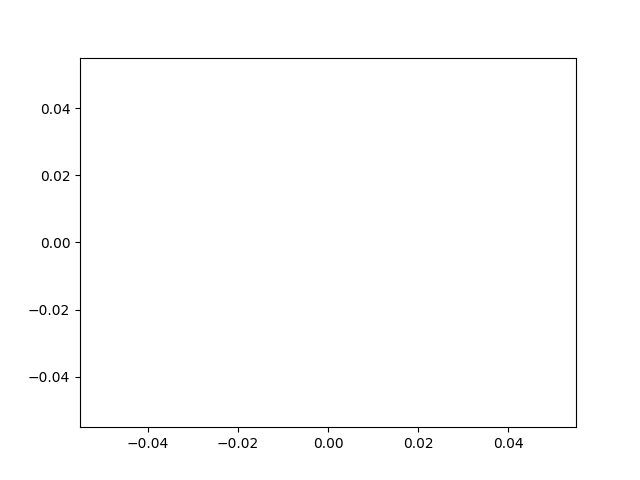
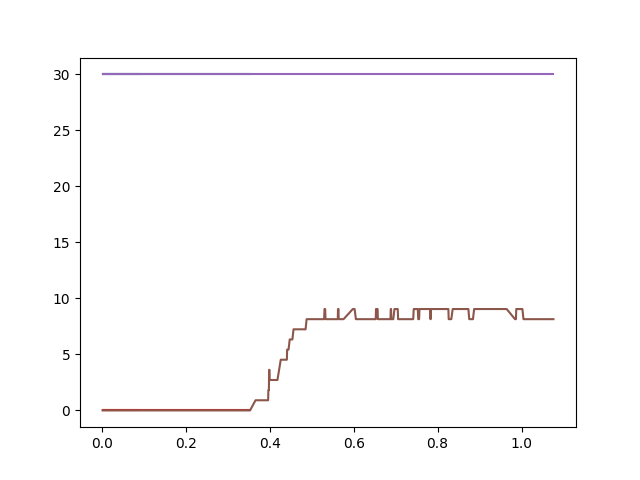
fix

diff --git a/robot1/teensy_moteur/lib/rolling_basis/src/rolling_basis.cpp b/robot1/teensy_moteur/lib/rolling_basis/src/rolling_basis.cpp
@@ -87,40 +87,40 @@ void Rolling_Basis::handle(
 {
     /* Speed part */
     // Compute real linear and angular speed
-    double Vm = (this->right_motor->speed + this->left_motor->speed) / 2;                     // Vitesse linéaire mesurée
-    double Wm = (this->right_motor->speed - this->left_motor->speed) / this->center_distance; // Vitesse angulaire mesurée
+    float Vm = (this->right_motor->speed + this->left_motor->speed) / 2;                     // Vitesse linéaire mesurée
+    float Wm = (this->right_motor->speed - this->left_motor->speed) / this->center_distance; // Vitesse angulaire mesurée
 
     // Save speeds as rolling basis properties
-    this->linear_speed = (float)Vm;
-    this->angular_speed = (float)Wm;
+    this->linear_speed = Vm;
+    this->angular_speed = Wm;
 
     // Compute linear and angular speed error (difference between target and real)
-    double Ev = target_linear_speed - Vm;
-    double Ew = target_angular_speed - Wm;
+    float Ev = target_linear_speed - Vm;
+    float Ew = target_angular_speed - Wm;
 
     // Compute PID output based on errors
-    double linear_speed_correction = this->linear_speed_pid.compute(Ev);
-    double angular_speed_correction = this->angular_speed_pid.compute(Ew);
+    float linear_speed_correction = this->linear_speed_pid.compute(Ev);
+    float angular_speed_correction = this->angular_speed_pid.compute(Ew);
 
     /* Position part */
     // We already have the current robot's position with odometrie (X, Y, THETA)
 
     // Compute distance and orientation error (difference between target and real)
-    double Ed = sqrt(pow(target_position.x - this->X, 2) + pow(target_position.y - this->Y, 2));
-    double Etheta = target_position.theta - fmod(this->THETA, PI); // fmod to keep the angle between -PI and PI, TODO: a tester !!
+    float Ed = sqrt(pow(target_position.x - this->X, 2) + pow(target_position.y - this->Y, 2));
+    float Etheta = target_position.theta - fmod(this->THETA, PI); // fmod to keep the angle between -PI and PI, TODO: a tester !!
 
     // Compute PID output based on errors
-    double linear_distance_correction = this->linear_distance_pid.compute(Ed);
-    double angular_distance_correction = this->angular_distance_pid.compute(Etheta);
+    float linear_distance_correction = this->linear_distance_pid.compute(Ed);
+    float angular_distance_correction = this->angular_distance_pid.compute(Etheta);
 
     /* Combine both corrections */
     // Compute corrected linear and angular speed
-    double Vc = target_linear_speed + linear_speed_correction + linear_distance_correction;
-    double Wc = target_angular_speed + angular_speed_correction + angular_distance_correction;
+    float Vc = target_linear_speed + linear_speed_correction + linear_distance_correction;
+    float Wc = target_angular_speed + angular_speed_correction + angular_distance_correction;
 
     // Compute right and left motor speed
-    double right_speed = (2 * Vc + Wc * this->center_distance) / 2;
-    double left_speed = (2 * Vc - Wc * this->center_distance) / 2;
+    float right_speed = (2 * Vc + Wc * this->center_distance) / 2;
+    float left_speed = (2 * Vc - Wc * this->center_distance) / 2;
 
     /* Apply commands to motors */
     this->right_motor->set_motor(right_speed);

diff --git a/robot1/rasp/controllers/rolling_basis/rolling_basis.py b/robot1/rasp/controllers/rolling_basis/rolling_basis.py
@@ -47,10 +47,10 @@ class RollingBasis(BaseComTeensy):
         self.odometrie: OrientedPoint = OrientedPoint((0.0, 0.0), 0.0)
         self.linear_speed: float = 0.0
         self.angular_speed: float = 0.0
-        self._all_linear_speed: np.ndarray = np.array([], np.float64)
-        self._all_angular_speed: np.ndarray = np.array([], np.float64)
+        self._all_linear_speed: list[float] = []
+        self._all_angular_speed: list[float] = []
         self._start_time: time = 0
-        self._time: np.ndarray = np.array([], np.float64)
+        self._time: list[float] = []
 
         # PID controllers
         self.linear_speed_pid: PID = PID(0.0, 0.0, 0.0)
@@ -107,8 +107,10 @@ class RollingBasis(BaseComTeensy):
             struct.unpack("<f", msg[8:12])[0],
         )
         # Speeds
-        self._linear_speed = struct.unpack("<f", msg[12:16])[0]
+        self.linear_speed = struct.unpack("<f", msg[12:16])[0]
         self.angular_speed = struct.unpack("<f", msg[16:20])[0]
+        
+        #self.logger.info(f"Pos: {self.odometrie}, Linear speed: {self.linear_speed}, Angular speed: {self.angular_speed}")
 
         self._add_state_to_array(
             self.linear_speed, self.angular_speed, self._get_elapsed_time()
@@ -328,10 +330,11 @@ class RollingBasis(BaseComTeensy):
             angular_speed (float): real angular speed received from Teensy
         """
 
-        np.append(self._all_linear_speed, [linear_speed])
-        np.append(self._all_angular_speed, [angular_speed])
-        np.append(self._time, [time])
-        self.logger.info(self.linear_speed)
+        self._all_linear_speed.append(linear_speed)
+        self._all_angular_speed.append(angular_speed)
+        self._time.append(time)
+        # self.logger.info(self._all_linear_speed)
+        # self.logger.info(self.linear_speed)
 
     @np.vectorize(otypes=[float])
     def _target_speed(x):
@@ -339,9 +342,11 @@ class RollingBasis(BaseComTeensy):
 
     def plot_answer_pid(self, state):
         if state == self.flag:
-            plt.plot(self._time, self._target_speed(self._time))
-            plt.plot(self._time, self._all_linear_speed)
-            plt.savefig('pid_answer.png')
+            self.logger.info(self._target_speed(self._time))
+            self.logger.info(self._all_linear_speed)
+            plt.plot(np.array(self._time), self._target_speed(self._time))
+            plt.plot(np.array(self._time), np.array(self._all_linear_speed))
+            plt.savefig("pid_answer.png")
             self.flag = not self.flag
             self.logger.info("Plotting PID answer")
 

diff --git a/robot1/rasp/brains/main_brain.py b/robot1/rasp/brains/main_brain.py
@@ -85,21 +85,20 @@ class MainBrain(Brain):
             logger=Logger(identifier="RollingBasis", follow_logger_manager_rules=True)
         )
         rolling_basis.set_odometrie(self.rolling_basis_odometrie)
-        __flag = False
         # --- MetaProg is insane (loop) --- #
-        if self.navigator_task is not None:
-                navigator.add_navigation_task(self.navigator_task)
-                self.navigator_task = None
+        # if self.navigator_task is not None:
+        #         navigator.add_navigation_task(self.navigator_task)
+        #         self.navigator_task = None
 
-        cmd = navigator.handle(
-            ally_zone=self.arena.ally_zone,
-            enemy_zone=self.arena.enemy_zone,
-        )
-        rolling_basis.set_speed_and_position(*cmd.get_command())
-        self.rolling_basis_odometrie = rolling_basis.odometrie
-        rolling_basis.plot_answer_pid(
-            True if navigator.current_task is None else False
-        )
+        # cmd = navigator.handle(
+        #     ally_zone=self.arena.ally_zone,
+        #     enemy_zone=self.arena.enemy_zone,
+        # )
+        # rolling_basis.set_speed_and_position(*cmd.get_command())
+        # self.rolling_basis_odometrie = rolling_basis.odometrie
+        # rolling_basis.plot_answer_pid(
+        #     True if navigator.current_task is None else False
+        # )
 
     """
     ### Main Process ###

diff --git a/robot1/rasp/main.py b/robot1/rasp/main.py
@@ -57,7 +57,8 @@ if __name__ == "__main__":
     # Environment loggers
     logger_grid_manager = Logger(
         identifier="GridManager",
-        follow_logger_manager_rules=True,
+        print_log_level=LogLevels.INFO,
+        #follow_logger_manager_rules=True,
     )
     logger_show_arena = Logger(
         identifier="ShowArena",
